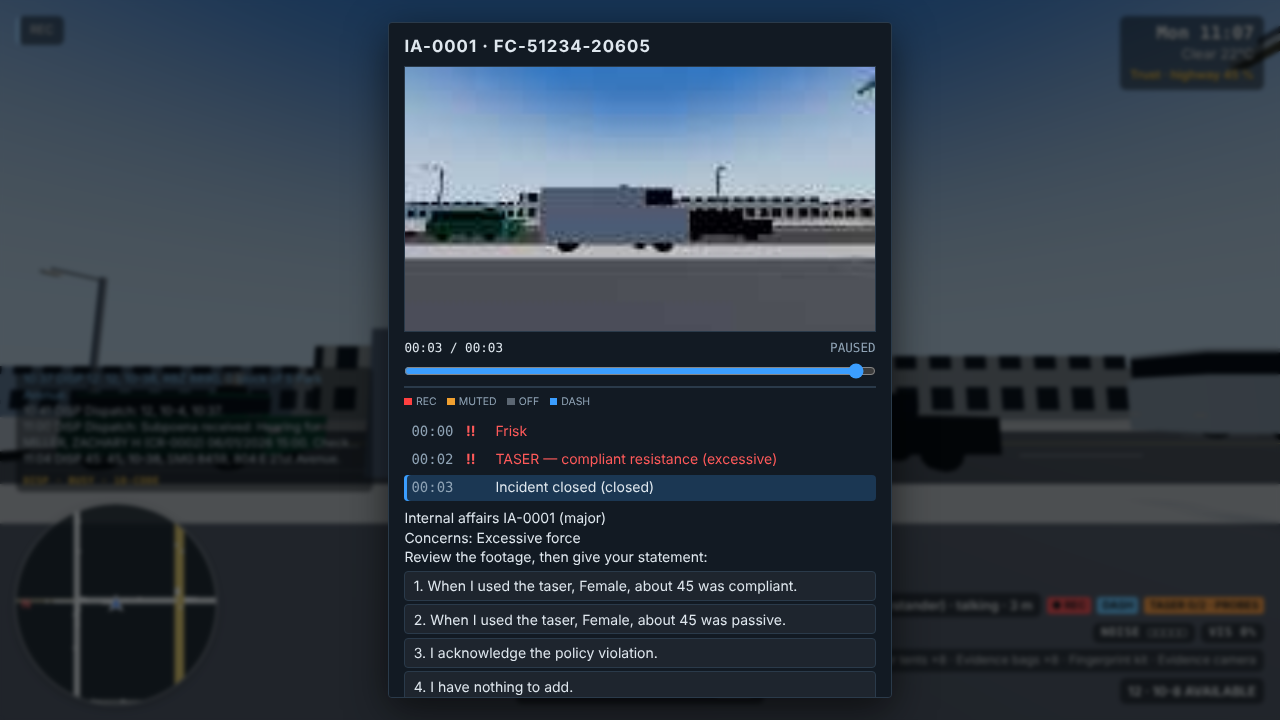
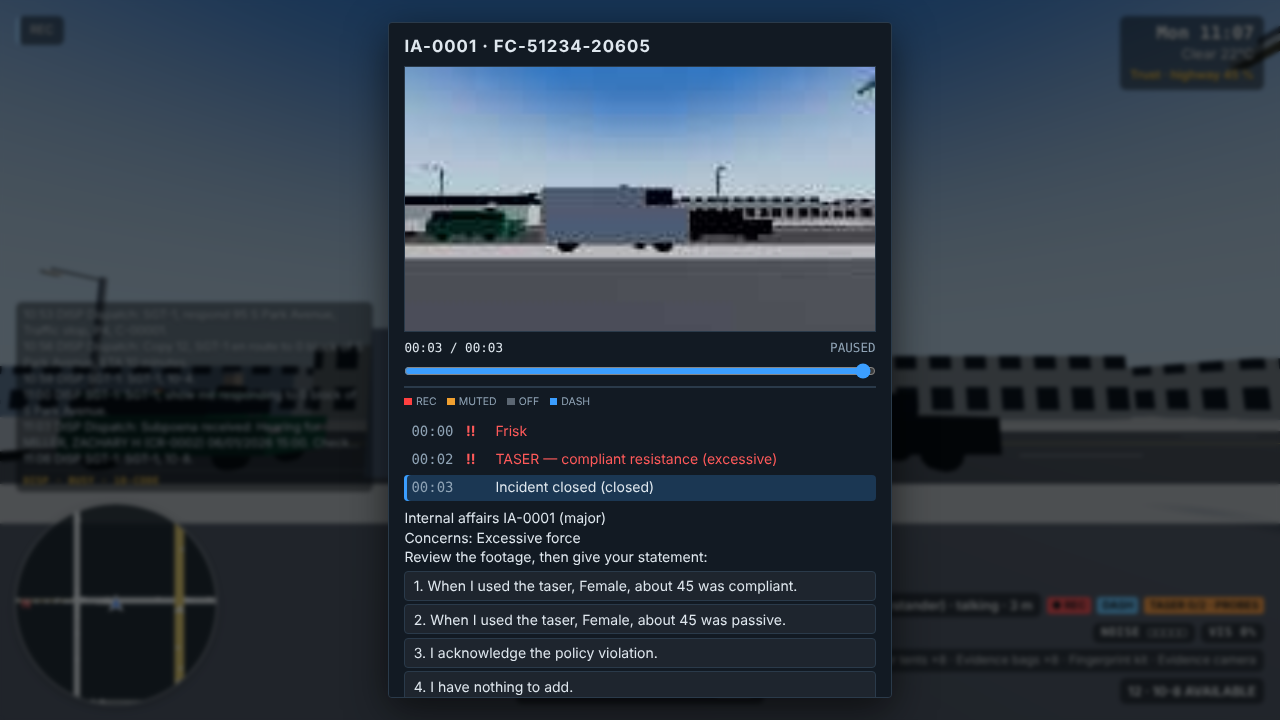
WIP Phase 6: integrated
Claude-Session: https://claude.ai/code/session_01Rvcmrw7QNVTdDc1VKr5xNY

diff --git a/docs/PHASES.md b/docs/PHASES.md
@@ -415,3 +415,75 @@ The main menu has a **Jurisdiction** select (generic or strict state law); `law 
 - A booking made from the MDT away from the station needs the prisoner caged and the officer at the station (Phase 3 rule); the smoke test files its bookings through the CAD document store.
 - Under software GL (SwiftShader) the game runs at about 1-5 fps; on a real GPU it runs at the display rate. Headless Chromium never grants pointer lock, so the smoke test switches it off for its one real click.
 - Integration fixes outside the integrator's own files: `ContactManager.activeIncident`, `SceneDirector.callOfBuilding`, `IncidentSystem.followCall` (and the playerCall / dash bit re-derivation on restore), `src/incidents/index.ts`, `test/game/phase3.test.ts` (trust is restored before the DUI stop: closing the domestic now moves community trust), `test/game/phase4.test.ts` and `test/game/session.test.ts` (v7 blocks, the new systems).
+
+## Phase 6 — Backup, Tactical, Multi-Agency
+
+Status: ✅ complete. Screenshots (taken by the smoke test): `docs/screenshots/phase6-backup.png` (the Backup panel with an AI officer on cover), `docs/screenshots/phase6-flir.png` (the air unit's FLIR camera) and `docs/screenshots/phase6-command.png` (the command panel at a mass-casualty scene). Design and module contracts: `docs/phase6-design.md`.
+
+### Completed
+- ✅ **AI backup officers with personalities, stress, fatigue and loyalty** (`units/personality.ts`, `units/roster.ts`, `data/units/roster.json`): every AI patrol officer and every ranked responder has a procedural name and five traits (aggression, discipline, experience, composure, communication) that are pure functions of the seed and the callsign; `RosterState` keeps stress (events: shots fired, weapon seen, fight, force, pursuit minutes, injury; decays per game minute with composure), fatigue (per hour and per call) and loyalty (covered by the player, abandoned, intervened on), saved in the v8 `roster` block. The dispatcher names its AI units from the roster.
+- ✅ **They arrive, take cover, call out and detain** (`backup/`, `data/backup/backup.json`): the AI units on scene of your call get out of their cars (pure FSM `stepOfficerFsm`: exiting, approach, cover / secondary / post / standby, chase, detain, returning, gone), take `coverSpot` positions against the contact, call out weapons, second subjects, runners and hands, chase and cuff runners and hold the command module's posts; the dispatcher keeps the car until the officer is back. **,** opens the Backup panel (select an officer or all; cover, secondary, detain, stand by, regroup, release).
+- ✅ **Mistakes under stress, deterministic per seed**: `mistakeChances(traits, stress, fatigue, loyalty)` and `rollMistakes(seed, callsign, arrival, chances)` give late callouts, poor positioning and (rarely) excessive force; a officer who rolls excessive force is the one fellow officer with a misconduct chance of 1 in the Phase 5 force system, so the duty to intervene (H) applies to them; the mistakes are announced (`backup:mistake`) and counted in the roster.
+- ✅ **17 requestable unit types + the chain of command** (`data/units/unitTypes.json`, `units/data.ts`, `resources/`): routine / priority backup, officer needs assistance, supervisor, K9, EMS, fire, tow, SWAT, negotiator, air unit, coroner, detectives, crime scene unit, animal control, bomb squad, state patrol, federal (plus lieutenant and chief), each with a vehicle (four new plain-coloured service models: ambulance, fire engine, tow truck, tactical truck), base, turnout, crew, on-scene behaviour, scene services and radio channel. They come from the radio menu (**T**, **4** *Request*, 8 per page, **9** More), the voice grammar ("request a K9 unit", "ambulance to my location"), the MDT *Resources* tab and the console; scene services (K9, EMS, fire, ...) are now answered by real units that drive in and do the scene work on arrival.
+- ✅ **Response times from positions, routes, traffic and priority** (`units/eta.ts`, pure, mandatory tests): `estimateResponse` from the route length, the road speed, the call priority (turnout 30-120 s and a speed factor), traffic density and rain; `rankByEta` ranks the nearest candidates (the dispatcher now sends the best of the nearest four); units spawn at their base after the turnout and drive; the live ETA (`resources.eta`) shows on the HUD, the radio acknowledgement ("ETA 3 minutes"), the CAD unit rows and the MDT; the MDT's ETA board (every unit to the selected call) is computed in the sim worker (`eta.matrix`) and never feeds back.
+- ✅ **Supervisors**: a sergeant is sent for use of force above a level, an excessive-force verdict and every vehicle pursuit; a lieutenant or chief for a major incident or a disaster (`chainResponse`), and takes command of the post on arrival. In a pursuit the sergeant monitors by `pursuitDecision` and orders termination (`pursuit:order`, recorded by the incident system and shown on the HUD and the radio); ignoring the order is judged.
+- ✅ **Pursuits** (`pursuit/`, `data/pursuit/pursuit.json`, traffic additions): AI road driving by the existing flee model; **PIT** classified from the real contact (rear quarter, closing speed, heading, suspect speed) and judged by policy (speed, offense, authorization, vehicle, wet downtown) with a scripted spin-out; **spike strips** dropped ahead by an AI unit (or from your trunk, **;**) deflate tyres (`traffic.deflate`; `burstTire` on your own car) and slow the car until it stops; box-in; rolling roadblock; the **air unit** (helicopter + spotlight, follows the car, FLIR camera on **/**, reveals hidden people); the **perimeter** (4 posts, K9, air) after a foot bail-out; **termination rules** (offense, time limit, lost visual, risk, non-violent offense) and the **jurisdiction handoff** to the state patrol at the city limits. The tactics panel (**;**) lists them with a hint when one is not available.
+- ✅ **Incident command and multi-agency scenes** (`command/`, `data/command/*.json`): the command post (levels: none, incident, major, disaster), **START triage** (the player assesses a patient for a few seconds and tags them; every tag is graded; EMS triages and transports the rest with `transportOrder`), traffic control points (`traffic.setBlockades`, staffed by backup officers), evacuation zones (no-go zones for pedestrians), containment (inner posts), fire units extricating and decontaminating, the new `massCasualty` call family (multi-vehicle crash, building collapse, hazmat release); **.** opens the command panel and the MDT *Command* tab shows the board.
+- ✅ **Barricades with a negotiator and SWAT**: the negotiator minigame (`negotiationTurn`: stages, trust, agitation, tone; the DialoguePanel) and the SWAT team (`SwatTeam`: four operators stage, stack, breach (a locked door is rammed), clear room by room and hold; plan: entry front / rear, tempo, less-lethal; contact odds from armed / hostage / negotiation trust) driven from the command panel or `swat <command>`.
+- ✅ **Save schema v8** (`save/`): `roster`, `resources`, `backup`, `pursuit` and `command` blocks (officer traits' dynamic state, unit slots and queued requests, on-foot officers and the SWAT team, the tracked pursuit and its strips, the command post, victims and tags) with a tested v7 → v8 migration (empty blocks on the seed's own streams; loading adds the 23 resource units to the CAD and rebuilds every profile from the seed); every older version still migrates; each malformed block is rejected; the traffic snapshot gains optional deflation, spin, cap, tracked and blockade fields without a version change. **The schema is frozen after this phase.**
+- ✅ **Console**: `units [roster|<type>]`, `request <type>`, `eta <callsign>`, `roster [callsign]`, `stress <callsign> <v>`, `backup list|<type>|<callsign> <command>`, `pursuit spawn|pit|spikes|strip|box|roadblock|air|perimeter|status`, `swat test|stage|stack|breach|clear|hold|withdraw`, `negotiate open|close|<option> [tone]`, `mci start <type>`, `triage list|assess|tag`, `ics post|tcp|evac|contain|needs|down|status`, `flir`.
+- ✅ **Determinism**: a stop with backup (an AI officer covers and calls it out) and a K9 driving from the station, a pursuit with a PIT contact, spikes, the air unit, the supervisor's order, the bail-out and the perimeter, and a multi-vehicle crash with the command post, the player's triage tags and EMS triage each replay to bit-identical v8 saves; a save made mid-pursuit continues exactly; a v7 save loads, a pursuit starts on it and a K9 drives to the call (`test/game/phase6.test.ts`). The mandatory unit tests: response-time estimation (`test/units/eta.test.ts`), the backup state machine and the deterministic mistakes (`test/backup`, `test/units/roster.test.ts`), pursuit policy and termination (`test/pursuit`), incident command and triage (`test/command`).
+- ✅ **End-to-end flows verified in the real game** (`npm run smoke`, real keys where they exist): **T 4 2** sends priority backup and **T 4 5** a K9 (paged `Request 1/3` menu), the HUD shows the K9's ETA, an AI officer gets out and calls it out (HUD line), **,** opens the Backup panel; `pursuit spawn`, **;** opens the tactics panel and **6** requests the air unit, the sergeant orders the pursuit terminated, AIR-1 arrives and **/** puts the camera on it; a multi-vehicle crash with the command post, **.** (command panel), an assessment and a tag, the MDT Command tab, EMS triaging; a barricade with the negotiator and SWAT on scene, the negotiation dialogue and the SWAT commands; a v8 save / load; the Phase 6 console commands. Zero console errors and zero app warnings.
+- ✅ 4 698 unit and integration tests (395 files) pass under `npm run check`.
+- ✅ No third-party assets, no new dependencies; `docs/ASSETS.md` stays empty.
+
+### How to run
+```
+npm install
+npm run dev        # http://localhost:5173
+npm run check      # tsc + eslint + vitest (4 698 tests)
+npm run build      # production bundle in dist/
+npm run smoke      # headless browser test (Phases 0-6) + docs/screenshots/phase1*.png ... phase6*.png
+```
+
+### Controls (Phase 6 additions)
+| | Keyboard / mouse | Gamepad |
+|---|---|---|
+| Request a unit: radio menu, **4** *Request* (8 types per page, **9** *More*), then the number | T, 4, 1-9 | D-pad left |
+| Backup panel (select an officer or all; cover, secondary, detain, stand by, regroup, release) | , | |
+| Incident command panel (post, assess / tag a patient, traffic control, evacuate, contain, resources, negotiate, SWAT) | . | |
+| Pursuit tactics panel (PIT, spikes ahead, deploy your strip, box-in, roadblock, air unit, perimeter) | ; | |
+| Air unit camera (FLIR) while an air unit is overhead | / | |
+| MDT *Resources* tab (request any type, units with ETA, the ETA board) · *Command* tab (ICS board) | MDT, right arrow | |
+| Voice (push-to-talk, off by default): "request a K9 unit", "send an ambulance", "supervisor to my location" | B (hold) | RB |
+
+All four panel keys can be rebound under *Settings > Controls*. The panels do not pause the game.
+
+### Manual test checklist
+1. New game, seed `42`, drive out. Light a car (**L**) until it pulls over, talk to the driver (**E**), then **T 4 2** (priority backup) and **T 4 5** (K9): the HUD shows `K9-1 ETA m:ss`, `eta K9-1` counts down, AI units arrive; one gets out, takes cover and calls it out (HUD line `21 Chapman · COVER`); **,** commands it.
+2. `units roster` and `roster 21` list the officers with traits, stress, fatigue, loyalty and mistake chances; `stress 21 0.9` then a new backup call makes late callouts and poor positions likely; the same seed always rolls the same mistakes.
+3. `pursuit spawn` (in a patrol car with the lights on): a car runs; a sergeant is sent and monitors; **;** opens the tactics panel (**2** spikes ahead, **6** air unit, **1** PIT when the car is at 20-45 mph beside its rear quarter), the supervisor orders the pursuit terminated when the risk is too high; when the driver bails out **;** > *Perimeter*; AIR-1 arrives after about 3 minutes and **/** puts the camera on it.
+4. `mci start multiVehicleCrash`, drive there: the lieutenant and chief come, **.** > *Assess nearest victim* then tag the patient (red / yellow / green / black); *Request recommended resources* brings EMS and fire; the MDT *Command* tab shows the board; EMS tags the rest and transports.
+5. `swat test`: a barricade at the nearest building, SWAT requested; `ics post`, `request negotiator`; when they are on scene **.** > *Negotiate* (the dialogue), then *SWAT* > stack, breach, clear.
+6. **Esc** > *Quick save*, quit, load: the roster, the units, the pursuit, the command post and the victims are back; a v7 save loads with an empty Phase 6 state and the units at their bases.
+7. Console: `units`, `units ems`, `request fire`, `backup list`, `pursuit status`, `ics status`, `triage list`, `flir`.
+
+### Performance
+- Node (seed 4242, 1200 fixed steps after a 120-step warm-up, `performance.now` per system): an idle patrol shift costs 0.91 ms per fixed step for everything (physics 0.29, traffic 0.35, npc 0.04, dispatch 0.016); the Phase 6 systems read `resources` 0.0075 ms, `pursuit` 0.0029, `backup` 0.0060, `command` 0.0033. With a pursuit running and a K9, the air unit and a sergeant on the road: 0.62 ms per step in all, `resources` 0.025 ms, `pursuit` 0.033 ms, `backup` 0.008, `command` 0.005. At a mass-casualty incident with a post, units on scene and 12 patients: 0.51 ms per step, `resources` 0.016, `pursuit` 0.016, `backup` 0.006, `command` 0.006. Design budgets (§17): resources 0.03 (met), backup 0.05 (met), command 0.02 (met), pursuit 0.02 (the active pursuit step is 0.03 ms with the registry's own timing overhead, a miss by 0.01 ms for the duration of a chase; idle 0.003).
+- Module benchmarks (CI-asserted): 8 officers and 4 SWAT operators clearing a house 0.005 ms per step, an active pursuit 0.003 ms, 15 victims 0.02 ms (far below), 16 traffic blockades +0.02 ms, a roster minute tick below 0.005 ms; steady-state steps allocate nothing (views and panel models are rebuilt on revision only).
+- Response estimation routes at most four candidates per request (a few ms, on request steps only); the MDT ETA board (up to 32 routes) runs in the sim worker (~30 ms, the city is generated once per seed there), never feeds back and is dropped when stale.
+- Headless Chromium with SwiftShader (1280x720, software GL, ~1 fps, so these are draw-call and sim counts, not frame rates): the Phase 6 scene (a crash scene with figures, service vehicles, the command HUD) draws in 45-48 draw calls (146-154k triangles, the cap is 300); sim cost per frame (5 steps) 3.9-5.4 ms across the smoke phase; the helicopter adds 2 draw calls and one always-present SpotLight, the spike strips 2, the service vehicles 3 per visible new model; the perf overlay shows `resources`, `backup`, `pursuit` and `command` extras.
+- Save size: a v8 save adds the roster (29 officers, ~3 KiB), the resource units (23 x ~0.2 KiB), and per-incident officer, victim and command state (a few KiB; the 40 KiB design cap is far from reached).
+
+### Known limitations
+- Patrol backup officers stay outdoors (they hold the door); only the SWAT team enters buildings, and the team teleports just inside the entry door at the breach.
+- The PIT spin is a scripted traffic animation triggered by a real physics contact: PIT, ramming and box-in are judged by the Phase 6 policy and shown live, but are not part of the Phase 5 legal assessment or the IA triggers. A fleeing car is no longer crashed by any contact; the pursuit module decides.
+- The roadblock is an approximation: AI units ahead cap the suspect's speed; there is no formation driving. Jurisdiction is a rectangle (the city limits) and the state unit's resolution after a handoff is a roll, off screen.
+- FLIR is a zoomed camera with a grey-scale / contrast CSS filter and a target box, not a thermal render.
+- Crews of service vehicles stand by their vehicles; EMS loading is a timer (no stretcher animation); building collapse has no rubble geometry and trapped victims are a flag freed by fire units; the four new service vehicles are plain-coloured boxes with a light bar.
+- Units can wait a long time at a signal or in a queue (the Phase 3 traffic model has no queue-jumping for emergency vehicles beyond lane choice), so a distant backup unit may take several minutes; the ETA shown is the estimate at dispatch and the live route length afterwards.
+- A save from before Phase 6 keeps the AI units' Phase 2 CAD names; the roster names (backup panel, force verdicts) are generated for them at load.
+- A pursuit started while driving hard cannot be reproduced bit-for-bit after a load (the driven car's physics state is restored by Rapier, not replayed); the Phase 6 systems themselves continue exactly (tested with the officer at the roadside).
+- Under software GL (SwiftShader) the game runs at about 1-5 fps; on a real GPU it runs at the display rate.
+- Integration fixes outside the integrator's own files: `ResourceSystem.leave` closes a call that a patrol unit worked and no unit is left on (a pending call would be offered again), `Dispatcher.closeOwnCall` lets resource units not hold a call open when the player clears it (supervisors and EMS are released with it), `SceneDirector.startPursuitOf` (console and tests), `src/data/records/vehicle.json` (colour names of the four service vehicles), `test/game/*` adapted to v8 (23 resource units in the CAD, the new systems in the step order, `phase5` waits for the sergeant), `test/save/*` for v8.
+
